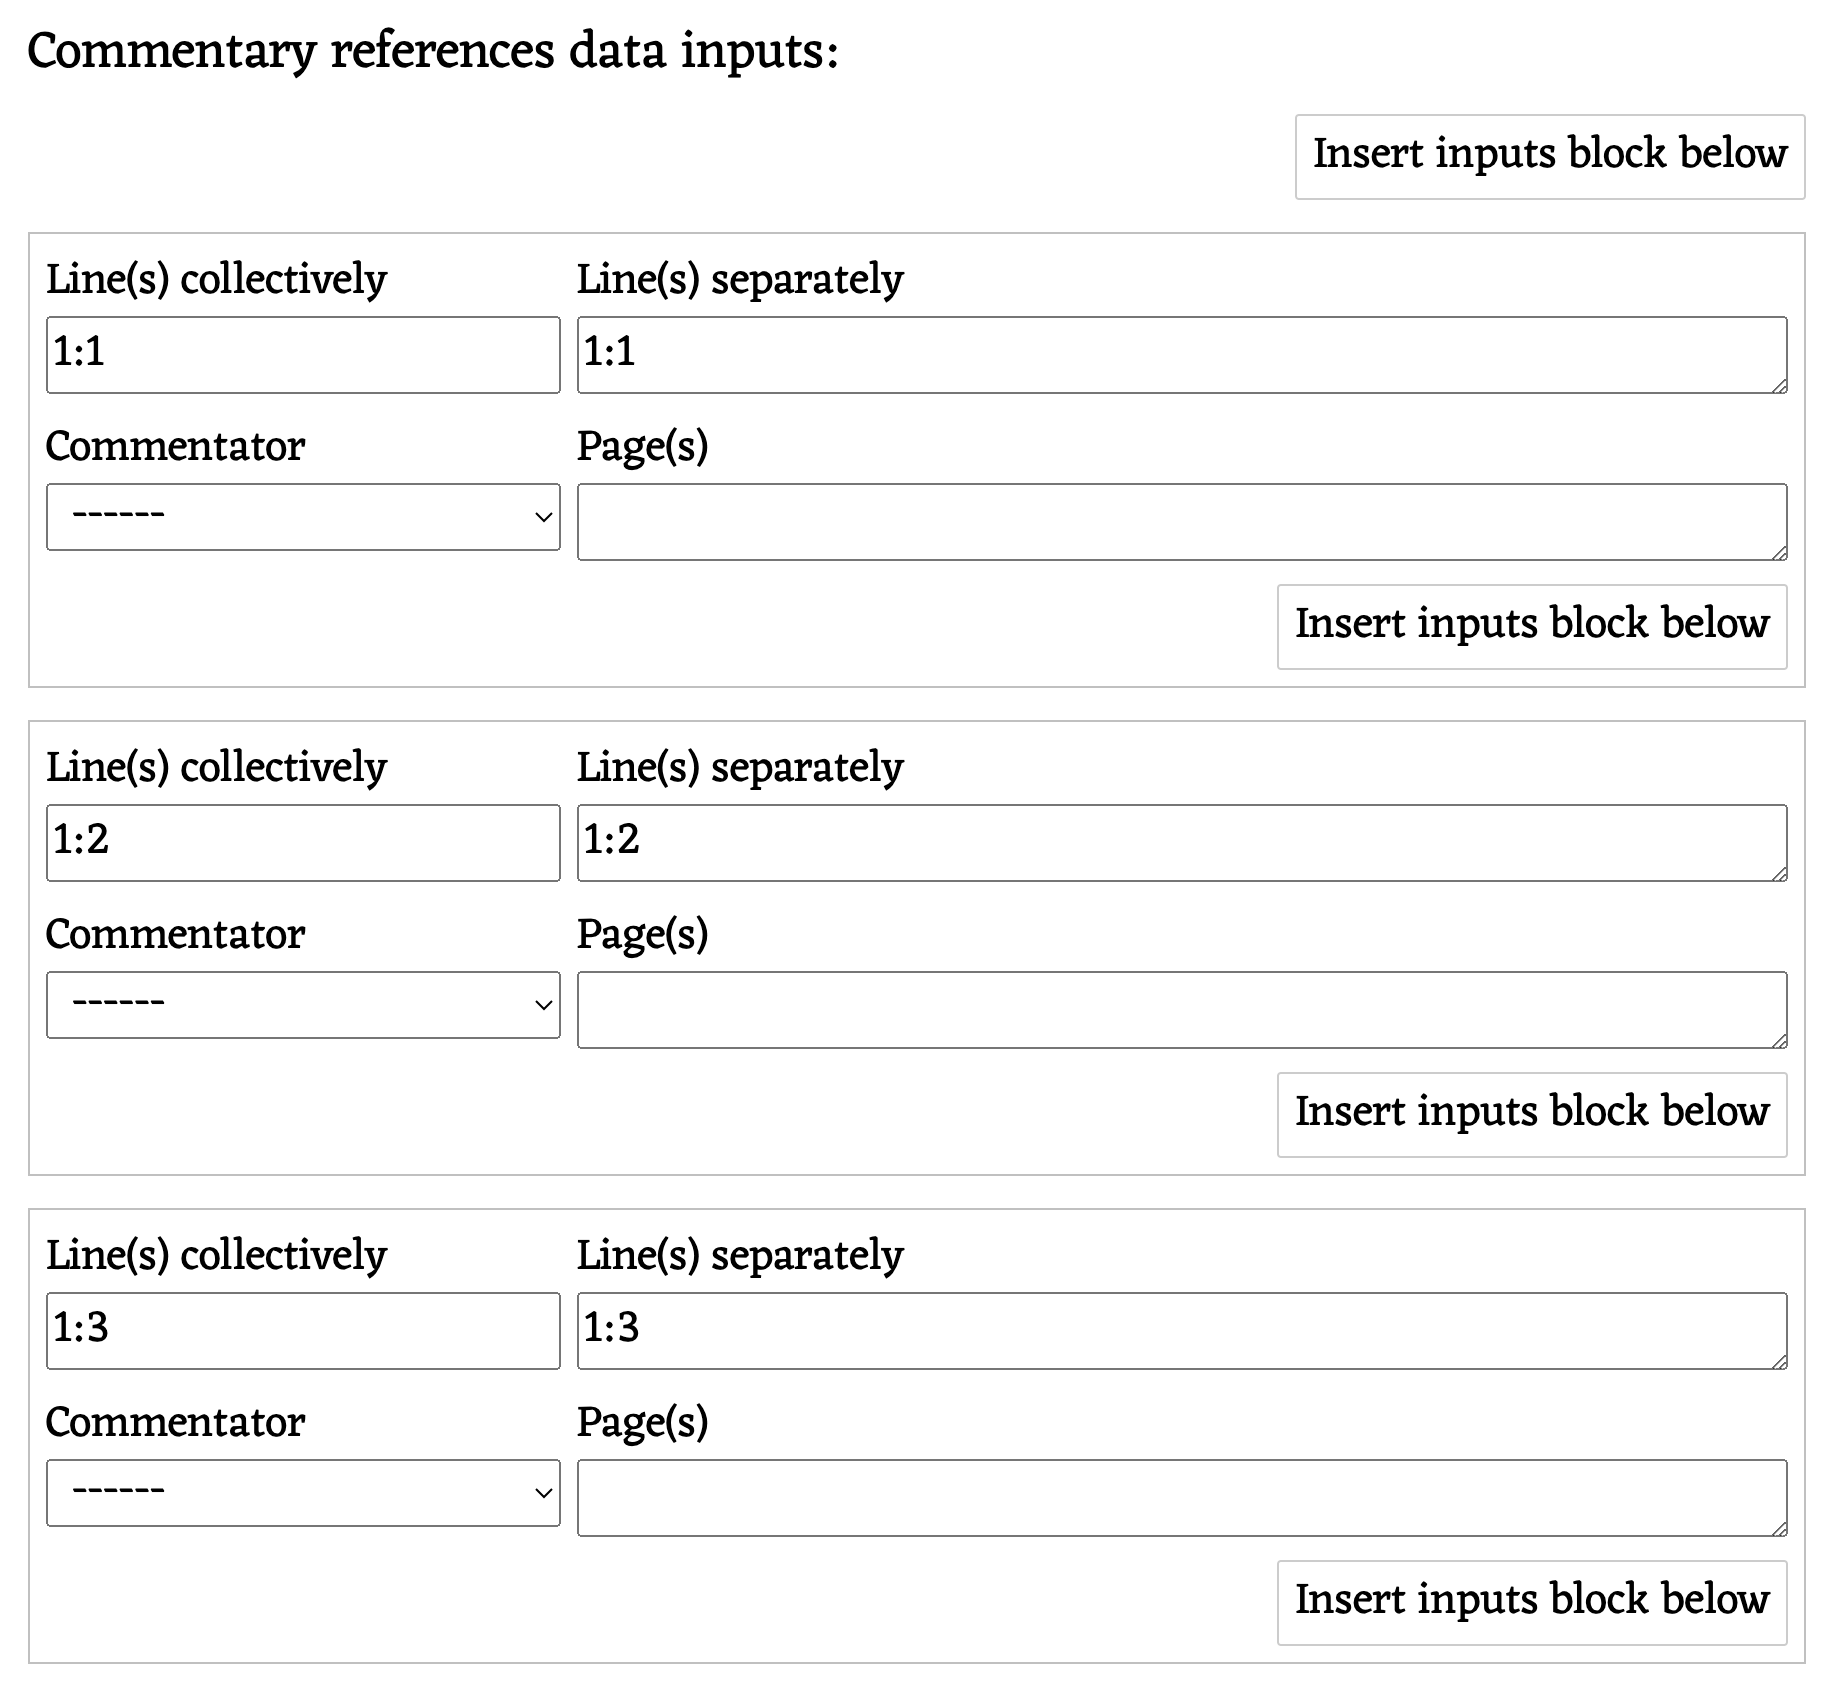
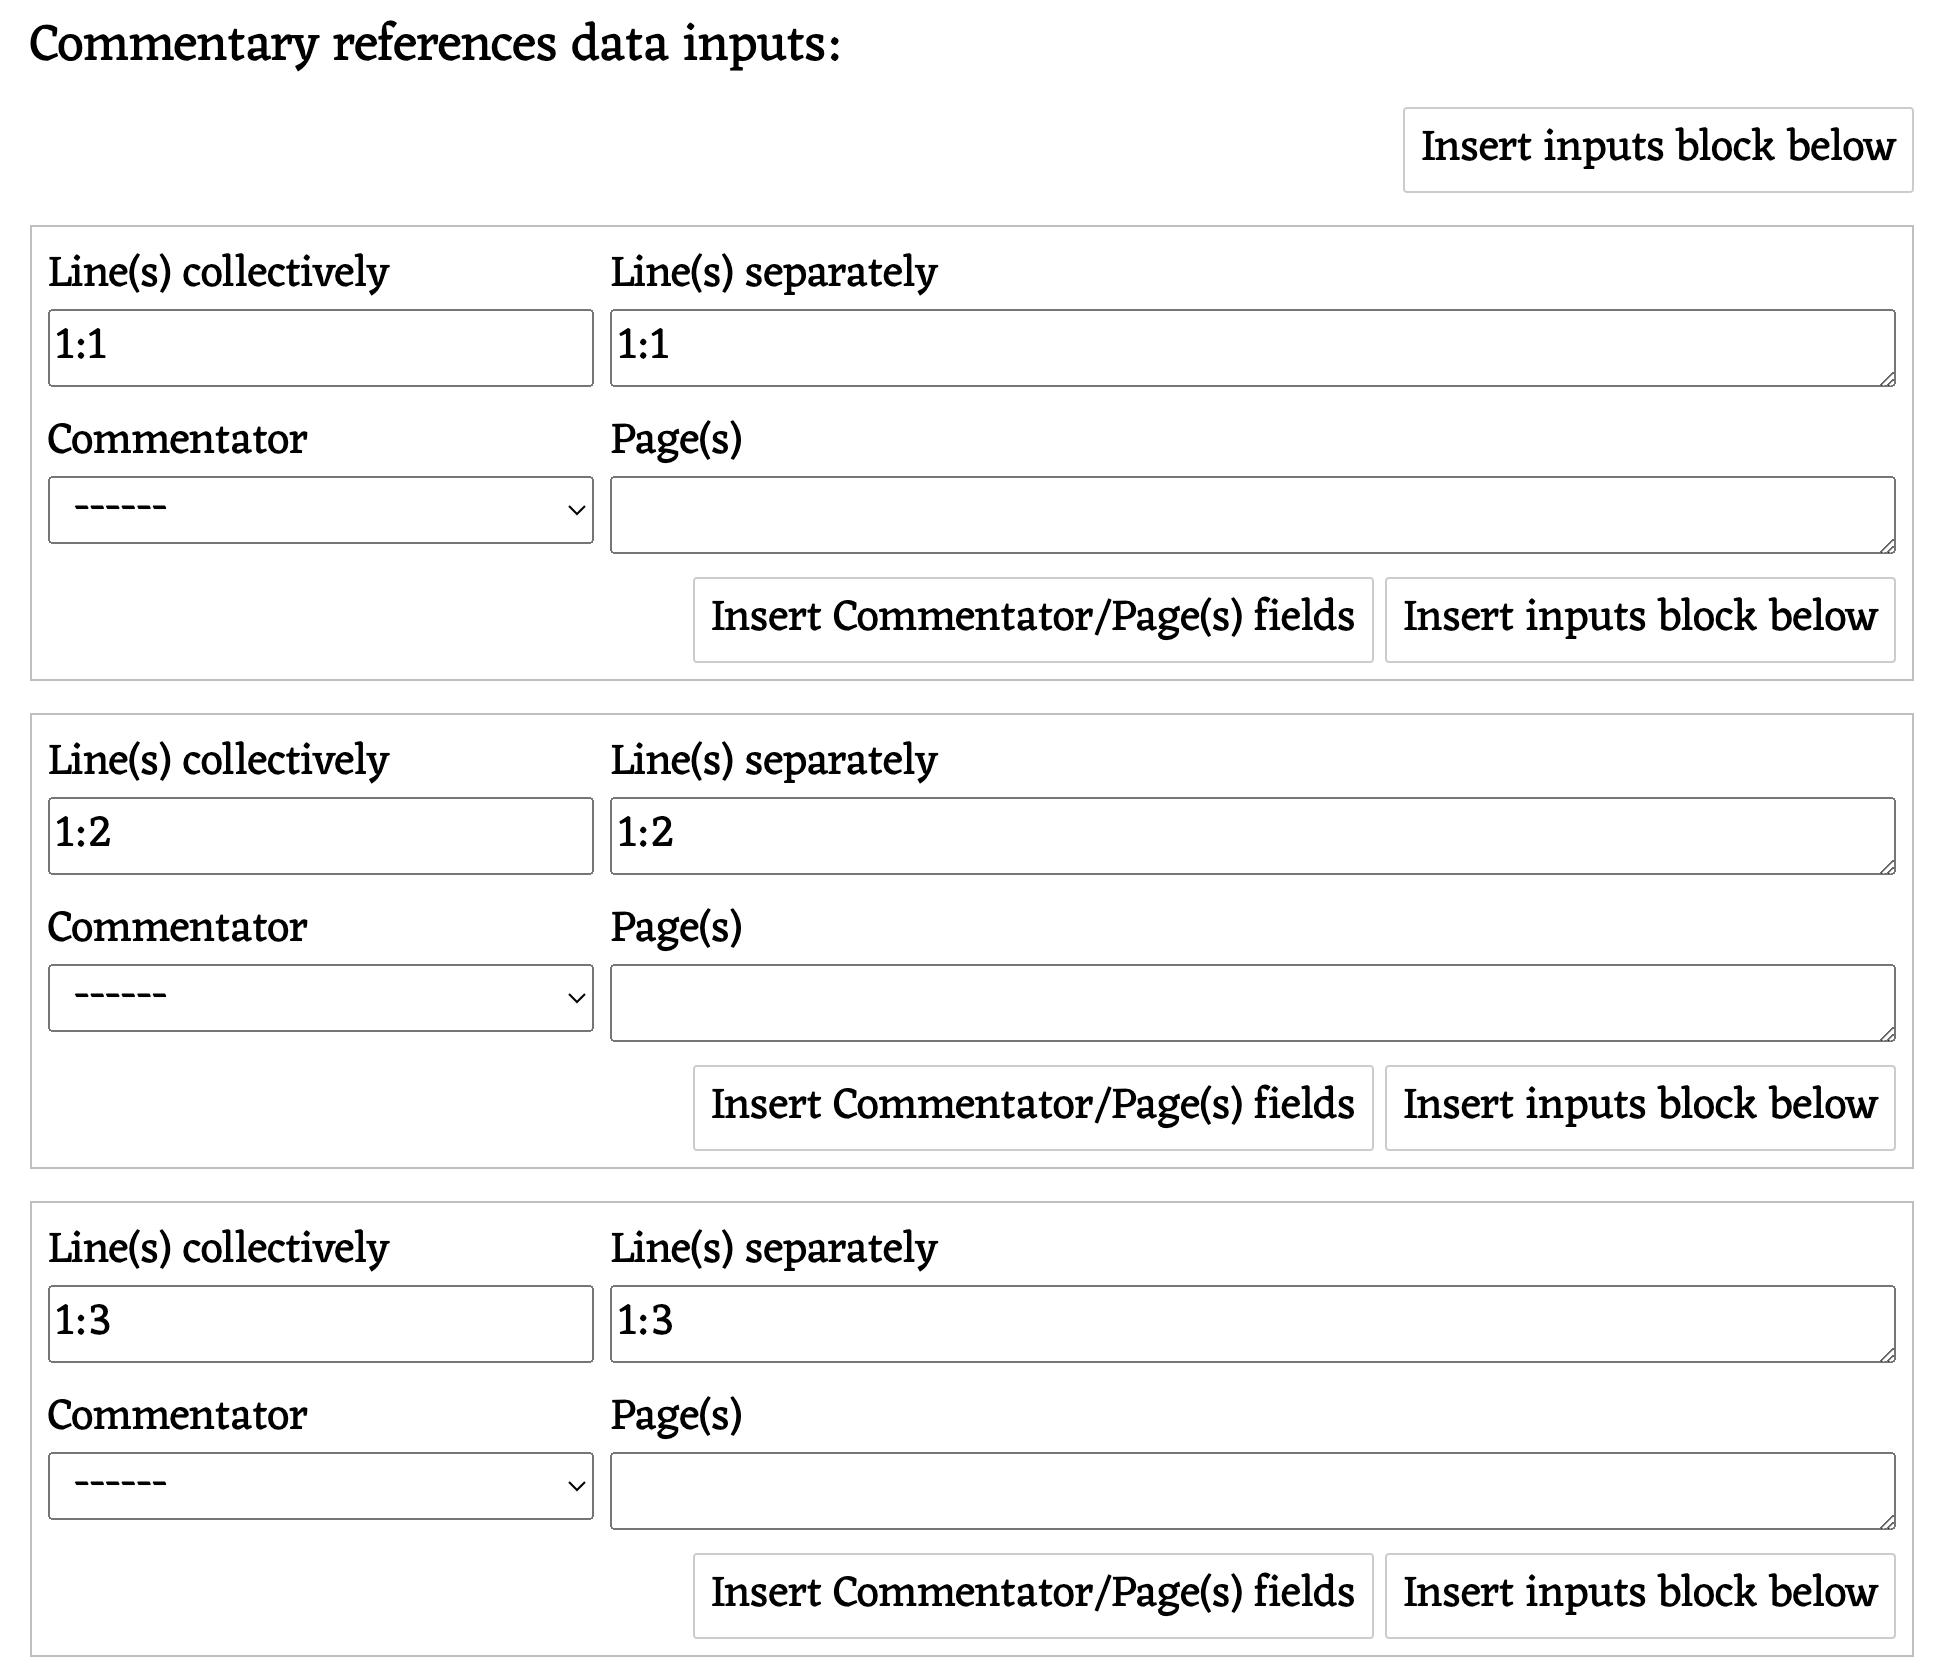
[122] Add Editor's docs part 29

diff --git a/docs/for_editor.html b/docs/for_editor.html
@@ -3953,37 +3953,39 @@ nt_romans_commentary_refs_by_parsedclassics =
 
 <p><img src="img2/commentary_refs_typed_02.png" class="w3-border w3-border-dark-gray pc-height-auto max-width-120"></p>
 
-<p>Each inputs block contains four fields and a button "Insert inputs block below". Clicking such button will result into new inputs block with empty fields created below current block. Newly created inputs block can be removed by clicking Close button in top right corner.</p>
+<p>Each inputs block contains four fields and  buttons "Insert Commentator/Page(s) fields" and "Insert inputs block below". Clicking "Insert inputs block below" button will result into new inputs block with empty fields being created below current block. Newly created inputs block can be removed by clicking Close button in top right corner. Clicking "Insert Commentator/Page(s) fields" button will result into Commentator field and Page(s) field being created below last pair of such fields.  Newly created Commentator and Page(s) fields can be removed by clicking Close button in top right corner of Page(s) field.</p>
 
 <p>Let's enter some values in the fields of such inputs blocks:</p>
 
+<p><img src="img2/commentary_refs_typed_03.png" class="w3-border w3-border-dark-gray pc-height-auto max-width-120"></p>
 
+<p>In the first block the second pair of Commentator and Page(s) fields was inserted by clicking the button "Insert Commentator/Page(s) fields. In the second of "Page(s)" fields was entered pipe delimited series of pages in which second commentator refers to the line 1:1.</p>
 
+<p>In the second block in the field "Line(s) collectively" line range "1:2-4" was entered. I necessitates to enter pipe separated line numbers from that range in the field "Line(s) separately". In the fields "Page(s)" was entered page numbers of the commentary book in which commentators whose names are entered in the fields Commentator refers to that range of lines.</p>
 
+<p>Having entered the values for all lines for which exist references in the commentary book, click the button "Generate code" and the code will be outputted in the textarea "Commentary references code".</p>
 
+<p>The code generated should, as described above, made the value of the variable "nt_titus_commentary_refs_by_parsedclassics" and saved in the file of the same name.</p>
 
+<h4 class="pc-anchor" id="h-commentary-references-supplementing-data-file">Supplementing data file</h4>
 
+<p>In previous section using <a target="blank" href="../tools/commentary_refs_generator.html">Commentary references generator</a> tool we created data file which contains references only to one commentary book. What should be done if we need to create commentary references resource which contains references to two or more commentary books? Or as it can happen, we created created data file which contains references to comments of some commentators from certain commentary book and now we need to supplement it by adding references to comments by other commentatotors from the same commentary book. In such cases we can use <a target="_blank" href="../tools/refs_supplementer.html">References supplementer</a> script.</p>
 
+<p>In order to use it we first need to create two data files, one containing references to one grammar book, and other containing references to second grammar book or two data files one containing references to comments by some commentators from one commentary book, and other containing references to comments by other commentators from the same commentary book. Then the form should be filled:</p>
 
+<p><img src="img2/commentary_refs_typed_04.png" class="w3-border w3-border-dark-gray pc-height-auto max-width-120"></p>
 
+<p>The value of the field "References to be supplemented code" should be the code containing the references to one commentary book or the code containing the references to comments of some only commentators from certain commentary book. Here the code entered contains references to comments of some only commentators from Staab's "Pauluskommentare aus der Griechischen Kirche".</p>
 
+<p>The value of the field "References to be added code" should be the code containing the references to another commentary book or the code containing the references to comments of some other commentators from certain commentary book. Here the code entered contains references to comments of some other commentators from Staab's "Pauluskommentare aus der Griechischen Kirche".</p>
 
+<p>Having entered such values in these fields we should click the buttons "Load refs" below these fields. This will result into references displayed below the headings "References to be supplemented" and "References to be added".</p>
 
+<p>After that the button "Supplement refs" should be clicked. This will result into three things: (a) the code combining references from both pieces of code will be generated and outputted into "References code" textarea; (b) part of code from "References to be added code" textarea which the script was not able to include in the combined code will be outputted into "References not added code" textarea; (c) combined references will be displayed below the heading "Grammar references supplemented".</p>
 
+<p>Now the button "Check for completeness" should be clicked. It will result in references which are included into combined code being highlighted green and references which are not included being highlighted red.</p>
 
-
-
-
-
-
-
-
-
-
-
-
-
-
+<p>It remains to analyze the code from "References not added code" textarea and include it manually piece by piece into combined code. Then combined code should be made the value of of the variable "nt_titus_commentary_refs_by_parsedclassics" and saved in the file of the same name as described in previous section.</p>
 
 <h3 class="pc-anchor" id="h-grammar-references-transcribed">Grammar references (transcribed)</h3>
 
@@ -4082,23 +4084,23 @@ nt_titus_grammar_refs_by_parsedclassics =
 
 <h4 class="pc-anchor" id="h-grammar-references-supplementing-data-file">Supplementing data file</h4>
 
-<p>I previous section using a target="blank" href="../tools/grammar_refs_generator.html">Grammar references generator</a> tool we created data file which contains references only to one grammar book. What should be done if we need to create grammar references resource which contains references to two or more grammar books? In such case we can use <a target="_blank" href="../tools/grammar_refs_supplementer.html">Grammar references supplementer</a> script.</p>
+<p>In previous section using <a target="blank" href="../tools/grammar_refs_generator.html">Grammar references generator</a> tool we created data file which contains references only to one grammar book. What should be done if we need to create grammar references resource which contains references to two or more grammar books? In such case we can use <a target="_blank" href="../tools/refs_supplementer.html">References supplementer</a> script.</p>
 
 <p>In order to use it we first need to create two data files, one containing references to one grammar book, and other containing references to second grammar book. Then the form should be filled:</p>
 
 <p><img src="img2/grammar_refs_typed_04.png" class="w3-border w3-border-dark-gray pc-height-auto max-width-120"></p>
 
-<p>The value of the field "Grammar references to be supplemented code" should be the code containing the references to one grammar book. Here the code entered contains references to Robertson's  "Grammar of the Greek New Testament in the light of historical research".</p>
+<p>The value of the field "References to be supplemented code" should be the code containing the references to one grammar book. Here the code entered contains references to Robertson's  "Grammar of the Greek New Testament in the light of historical research".</p>
 
-<p>The value of the field "Grammar references to be added code" should be the code containing the references to second grammar book. Here the code entered contains references to Winer's "Treatise on the grammar of New Testament Greek".</p>
+<p>The value of the field "References to be added code" should be the code containing the references to second grammar book. Here the code entered contains references to Winer's "Treatise on the grammar of New Testament Greek".</p>
 
-<p>Having entered such values in these fields we should click the buttons "Load grammar refs" below these fields. This will result into fererences displayed below the headings "Grammar references to be supplemented" and "Grammar references to be added".</p>
+<p>Having entered such values in these fields we should click the buttons "Load refs" below these fields. This will result into references displayed below the headings "References to be supplemented" and "References to be added".</p>
 
-<p>After that the button "Supplement grammar refs" should be clicked. This will result into three things: (a) the code combining references from both pieces of code will be generated and outputted into "Grammar references code" textarea; (b) part of code containing references to the second grammar book which the script was not able to include in the combined code will be outputted into "Grammar references not added code" textarea; (c) combined references will be displayed below the heading "Grammar references supplemented".</p>
+<p>After that the button "Supplement refs" should be clicked. This will result into three things: (a) the code combining references from both pieces of code will be generated and outputted into "References code" textarea; (b) part of code containing references to the second grammar book which the script was not able to include in the combined code will be outputted into "References not added code" textarea; (c) combined references will be displayed below the heading "Grammar references supplemented".</p>
 
 <p>Now the button "Check for completeness" should be clicked. It will result in references which are included into combined code being highlighted green and references which are not included being highlighted red.</p>
 
-<p>It remains to analyze the code from "Grammar references not added code" textarea and include it manually piece by piece into combined code. Then combined code should be made the value of of the variable "nt_titus_grammar_refs_by_parsedclassics" and saved in the file of the same name as described in previous section.</p>
+<p>It remains to analyze the code from "References not added code" textarea and include it manually piece by piece into combined code. Then combined code should be made the value of of the variable "nt_titus_grammar_refs_by_parsedclassics" and saved in the file of the same name as described in previous section.</p>
 
 
 

diff --git a/tools/index.html b/tools/index.html
@@ -102,11 +102,13 @@
 
 <p>(1) <a href="commentary_refs_generator.html">Commentary references generator</a></p>
 
+<p>(2) <a href="refs_supplementer.html">References supplementer</a></p>
+
 <p>Scripts for content type Grammar references (transcribed):</p>
 
 <p>(1) <a href="grammar_refs_generator.html">Grammar references generator</a></p>
 
-<p>(2) <a href="grammar_refs_supplementer.html">Grammar references supplementer</a></p>
+<p>(2) <a href="refs_supplementer.html">References supplementer</a></p>
 
 <p>Scripts for content type Diagram set (transcribed):</p>
 

diff --git a/tools/js/parsedclassics.tools.js b/tools/js/parsedclassics.tools.js
@@ -4129,9 +4129,9 @@ var ParsedClassicsGrammarRefsGenerator = {
 
 /*
 
-Grammar references supplementer script 
+References supplementer script 
 
-to generate code of Grammar refs resource
+to generate code of Grammar refs or Commentary refs resource
 
 */
 

diff --git a/site/js/parsedclassics.tools.js b/site/js/parsedclassics.tools.js
@@ -3737,7 +3737,7 @@ var ParsedClassicsGrammarRefsGenerator = {
 
 /*
 
-Grammar references supplementer script 
+References supplementer script 
 
 to generate code of Grammar refs resource
 